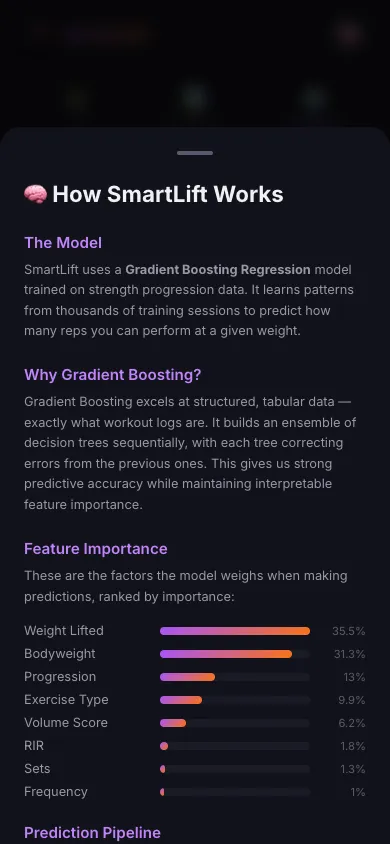
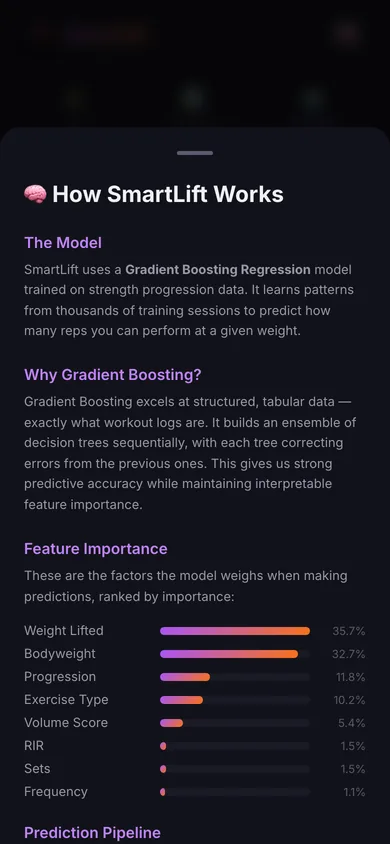
docs: add operations screenshots and refresh app screenshots
Grafana dashboard and drift panels, MLflow registry and OpenAPI docs captured from a local compose stack under load; app screenshots retaken against the current model.

diff --git a/README.md b/README.md
@@ -23,6 +23,17 @@ Right now it supports bench press, squat, and deadlift. The model was trained on
   <img src="frontend/screenshots/explainer.webp" width="24%" alt="Model Explainer Screenshot" />
 </div>
 
+### Operations
+
+| | |
+|---|---|
+| ![Grafana dashboard: request rate, latency percentiles, cache hit ratio, inference latency](docs/images/grafana.webp) | ![Grafana drift panels: PSI per feature against the 0.2 threshold](docs/images/grafana_drift.webp) |
+| **Grafana — SmartLift API.** Serving model version, request rate, 5xx rate, p50/p95/p99 latency per route, inference latency split by cache hit and miss. | **Feature drift.** PSI of every model feature against the Production model's training reference, with the 0.1 and 0.2 thresholds. |
+| ![MLflow model registry with four versions; version 4 holds the production alias](docs/images/mlflow_registry.webp) | ![OpenAPI docs listing the SmartLift endpoints](docs/images/api_docs.webp) |
+| **MLflow registry.** Every training run registers a version; promotion moves the `production` alias (and stage) and the API hot-swaps to it. | **API.** Interactive OpenAPI docs at `/docs`. |
+
+The screenshots come from a local `docker compose up` with demo data (`python -m app.seed`), a few promotions, and the load generator running at 25 RPS.
+
 ## Architecture
 
 ```mermaid
@@ -138,7 +149,8 @@ docker compose run --rm trainer python -m app.ml.train --stage Staging
 # Compare it with what's serving (metrics are on each run in the MLflow UI)
 docker compose exec api python -m app.registry list
 
-# Promote it; the previous Production version is archived
+# Promote it; the previous Production version is archived, and the
+# production/staging aliases are moved to match
 docker compose exec api python -m app.registry promote --version 2 --stage Production
 
 # Confirm the API switched over (within MODEL_REFRESH_SECONDS, default 30 s)

diff --git a/docs/adr/0001-mlflow-registry-over-pickled-artifacts.md b/docs/adr/0001-mlflow-registry-over-pickled-artifacts.md
@@ -23,6 +23,6 @@ The original backend loaded `smartlift_model.pkl` and `exercise_encoder.pkl` fro
 ## Consequences
 
 - One more service (MLflow, SQLite backend plus a proxied artifact store) in the stack, and a one-shot `trainer` service to bootstrap the first Production model.
-- MLflow 3 has deprecated registry stages in favor of aliases. We use stages because the promotion workflow is stage-based, isolate the calls in `app/registry.py`, and mirror each stage to an alias (`production`, `staging`) on promotion. Moving to aliases later means changing `latest_in_stage` to read the alias.
+- MLflow 3 has deprecated registry stages in favor of aliases. We use stages because the promotion workflow is stage-based, isolate the calls in `app/registry.py`, and mirror each stage to an alias (`production`, `staging`) on promotion, removing the alias of the stage a version leaves so aliases never disagree with stages. Moving to aliases later means changing `latest_in_stage` to read the alias.
 - If the registry is unreachable at startup the API starts degraded (`/predict` returns 503) and keeps retrying. Once a model is loaded, registry outages don't affect serving. MLflow's HTTP retries are capped so an outage can't stall startup for minutes.
 - Promotions take effect within one poll interval (30 s by default), not instantly.
